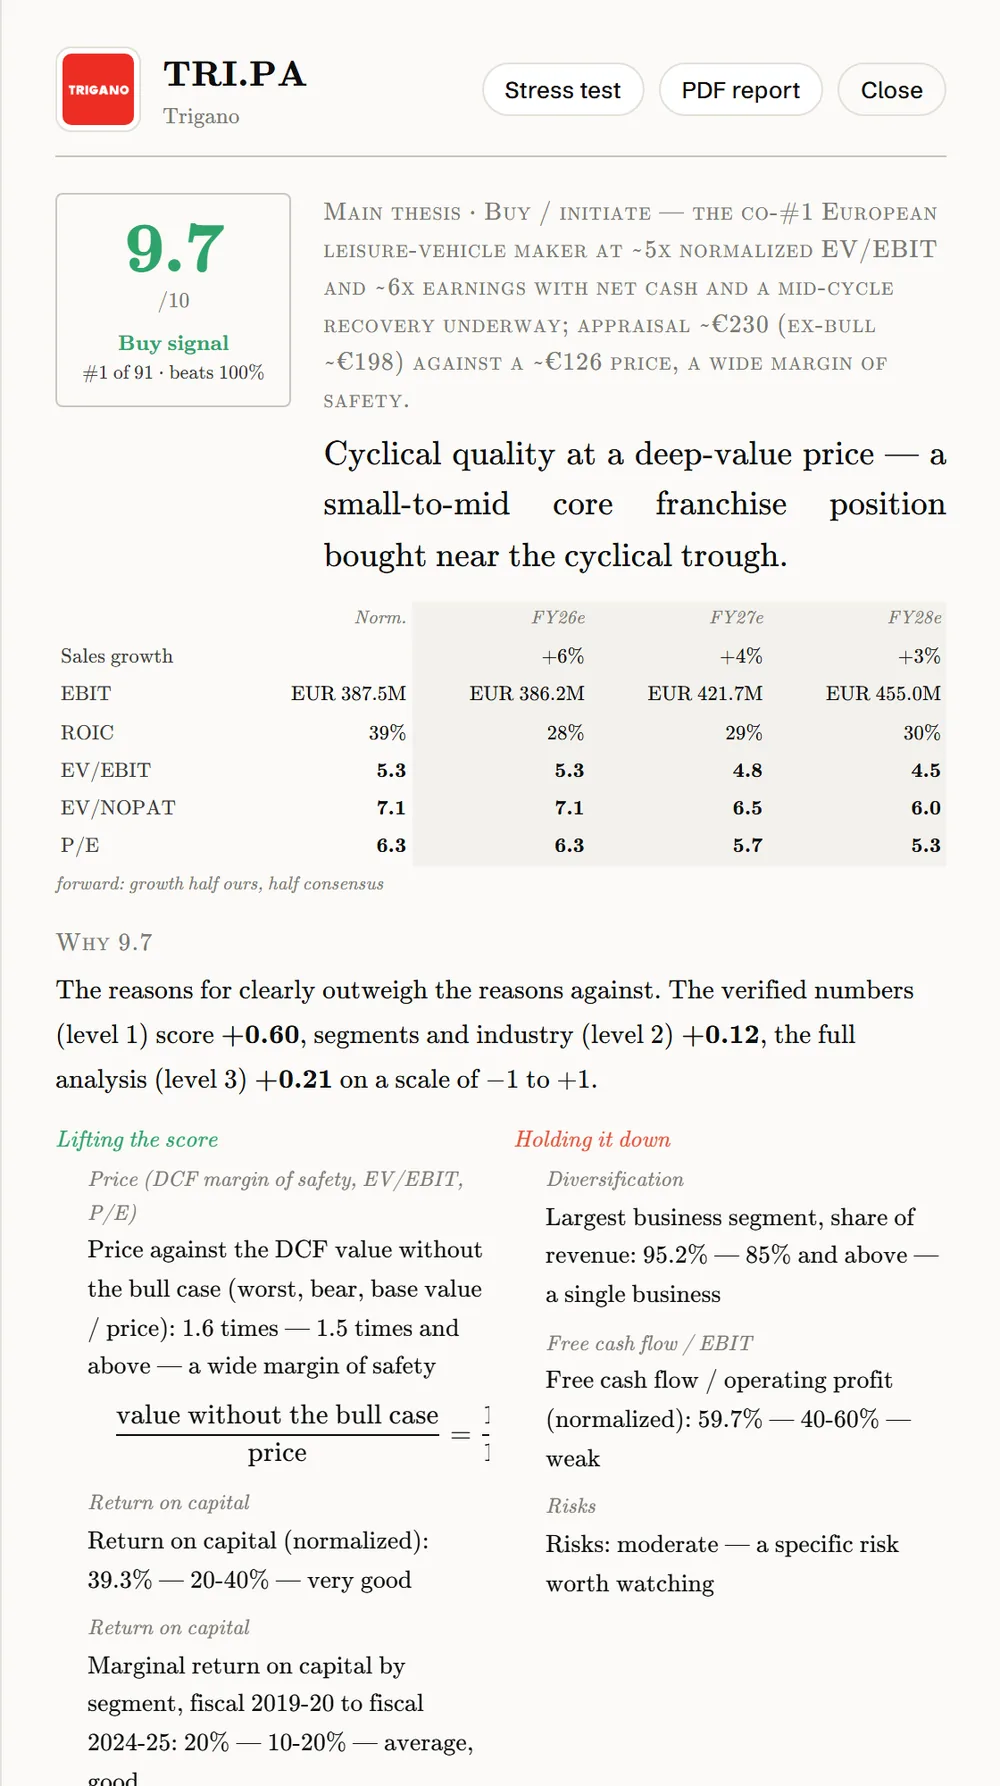
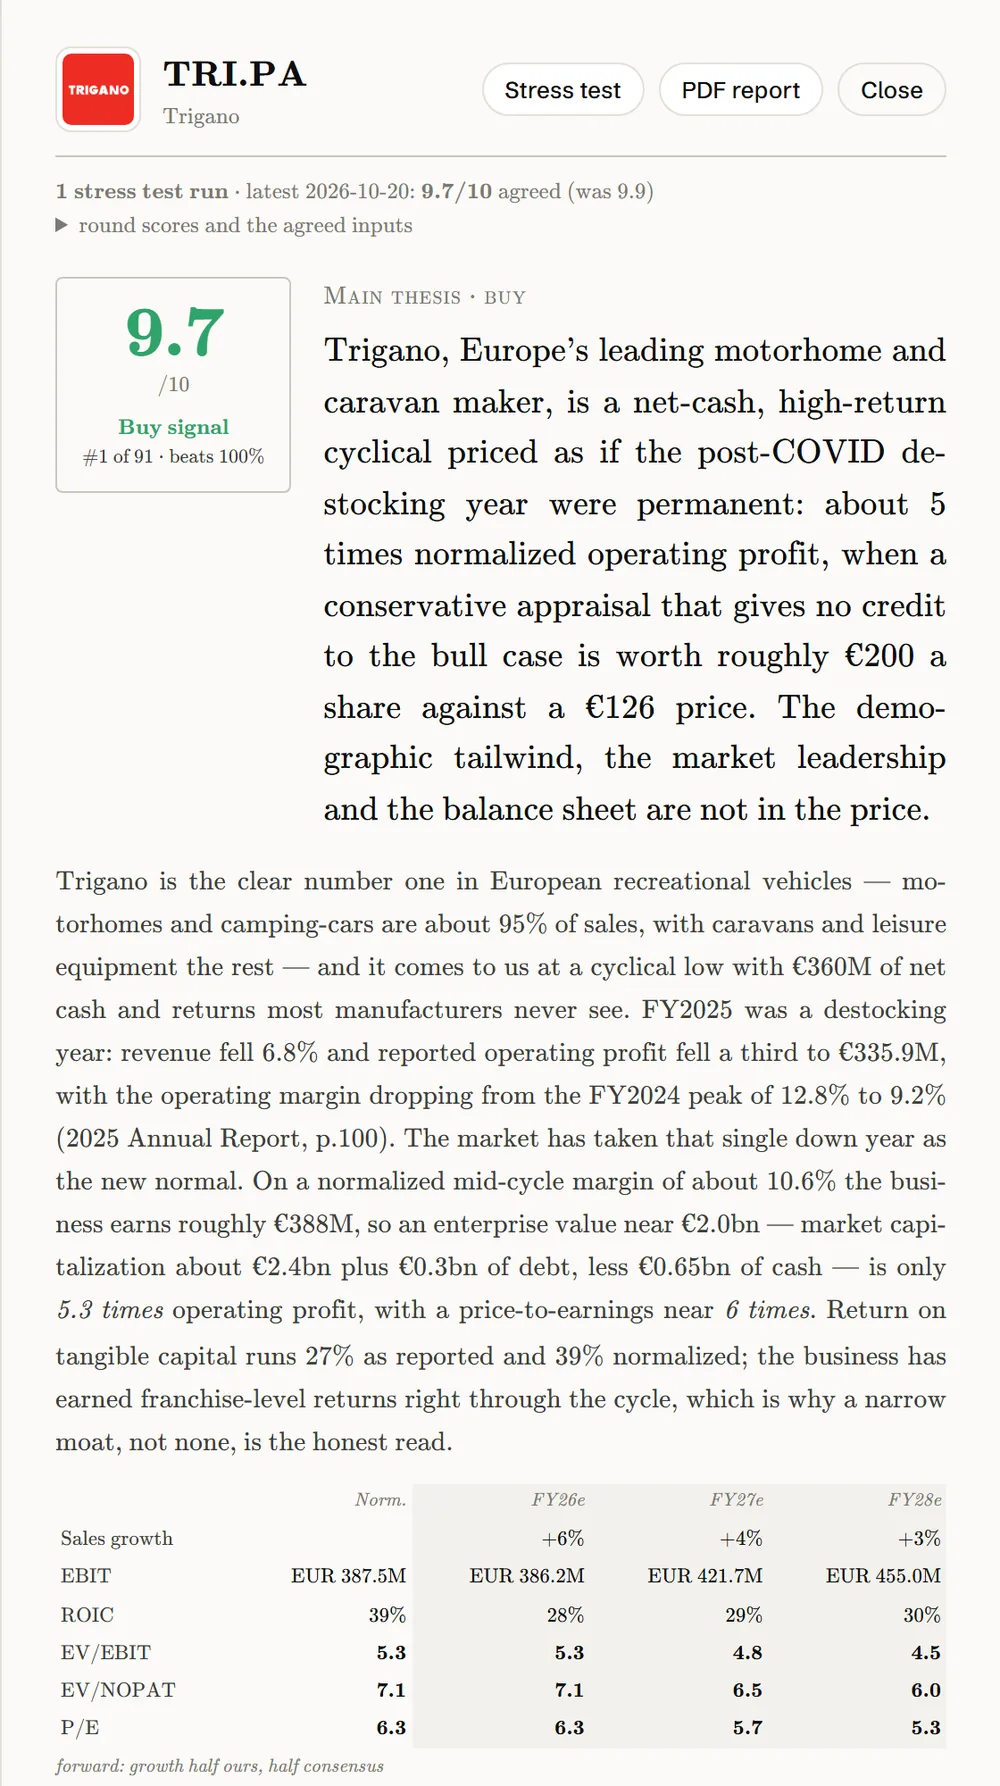
Retake the top-pick card after the thesis has loaded

Changed region(s): [[0.062, 0.0924, 0.961, 1.0]]

diff --git a/platform.html b/platform.html
@@ -110,7 +110,7 @@
         <div class="zig-media">
           <figure class="frame frame-on-dark frame-tall-md" style="--hue: var(--re)">
 <div class="frame-bar"><i></i><i></i><i></i><span class="frame-url">TRI.PA · top pick · opened</span></div>
-<img src="assets/app/vi-top-pick.webp" alt="Trigano opened from top picks: a score of 9.7 with a buy signal, the main thesis, normalised and forward EBIT, ROIC, EV/EBIT and P/E, and why the score is what it is, with price against intrinsic value lifting it." width="1000" height="1786" loading="lazy">
+<img src="assets/app/vi-top-pick.webp" alt="Trigano opened from top picks: one stress test run and its agreed score, a score of 9.7 with a buy signal, the main thesis and its reasoning in full, then normalised and forward EBIT, ROIC, EV/EBIT and P/E." width="1000" height="1786" loading="lazy">
 </figure>
         </div>
       </div>
